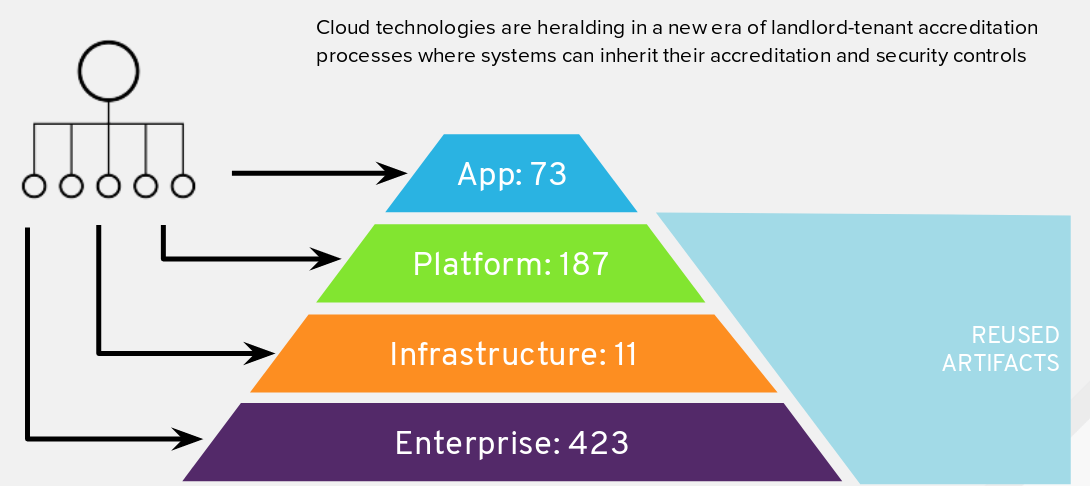
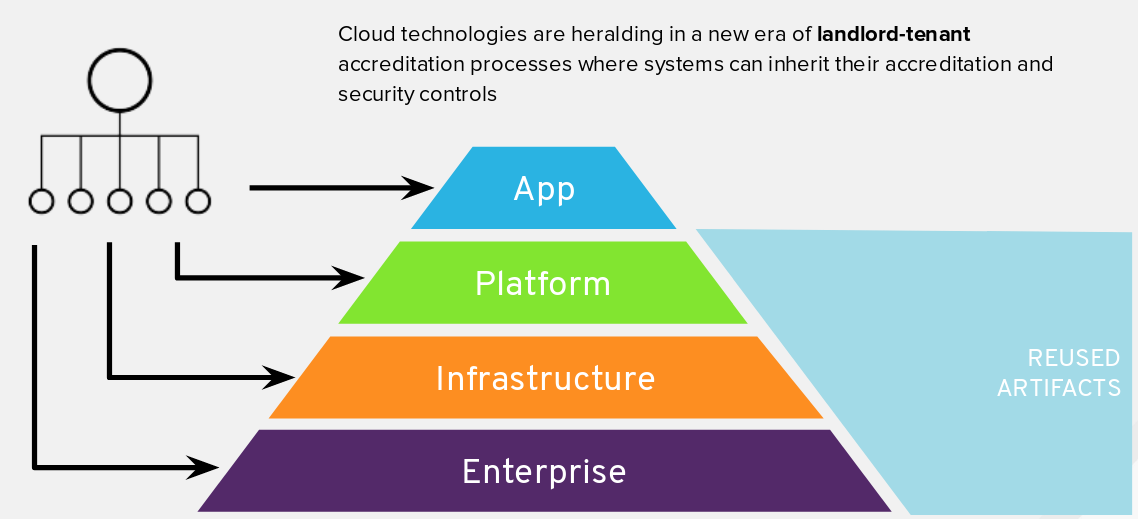
updated pyramid

diff --git a/content/workshops/secure_software_factory/lab02.md b/content/workshops/secure_software_factory/lab02.md
@@ -15,11 +15,11 @@ For many organizations, obtaining Authority to Operate (ATO) is an arduous proce
 
 Having a secure foundation for your applications is a key component to a Trusted Software Supply Chain. In the following lab exercises, your applications will inherit these security controls from the accredited OpenShift platform.
 
-The approach towards the Authorization and Accreditation (A&A) process with OpenShift follows a Landlord/Tenant model. OpenShift is a container application platform that provides a standardized operating environment and when assessing system boundaries, a delineation should be made between the OpenShift system itself which operates as a Landlord and the tenant application, which consumes the OpenShift service.
+The approach towards the Authorization and Accreditation (A&A) process with OpenShift follows a Landlord/Tenant model. OpenShift is a container application platform that provides a standardized operating environment and when assessing system boundaries, a delineation should be made between the OpenShift system itself, which operates as a Landlord, and the tenant application, which consumes the OpenShift service.
 
 <img src="../images/security_inheritance_model.png" width="700" />
 
-In Landlord/Tenant system security plans (SSP), many security controls are inherited from the Landlord’s SSP, but some controls remain the responsibility of the OpenShift consumers. Following this division of responsibilities illustrated in the diagram above, approximately 73 controls would be considered the responsibility of the tenant, whereas 621 controls that are already taken care of by the Landlord.
+In Landlord/Tenant system security plans (SSP), many security controls are inherited from the Landlord’s SSP, but some controls remain the responsibility of the OpenShift consumers. Following this division of responsibilities illustrated in the diagram above, some controls would be considered the responsibility of the tenant, whereas a good number of controls are already taken care of by the Landlord.
 
 [1]: https://en.wikipedia.org/wiki/Continuous_delivery
 [2]: https://cloud.gov/docs/compliance/ato-process/

diff --git a/content/workshops/secure_software_factory/prerequisites.md b/content/workshops/secure_software_factory/prerequisites.md
@@ -10,14 +10,14 @@ layout: lab
 
 
 {{% alert success %}}
-This workshop is done entierly through the browser, but you do need a free personal GitHub account.
+This workshop is done entierly through the browser.
 {{% /alert %}}
 
-## Create a Github account
+## Create a Github account (Optional)
 If you don't have a person GitHub account please sign up [here][1] to create a free account.
 
 - [Create GitHub Account][1]
-- [Download Git Client (optional)][2]
+- [Download Git Client][2]
 
 [1]: https://github.com/join?source=header-home
 [2]: https://git-scm.com/downloads

diff --git a/content/workshops/secure_software_factory/lab05.md b/content/workshops/secure_software_factory/lab05.md
@@ -80,7 +80,7 @@ strategy:
       value: stage-<user>
 ```
 
-Also, notice that We will be launching a Maven node/agent to execute our pipeline.
+Also, notice that we will be launching a Maven node/agent to execute our pipeline.
 
 You will also be declaring variables such as version and mvnCmd to be used later in the pipeline.
 
